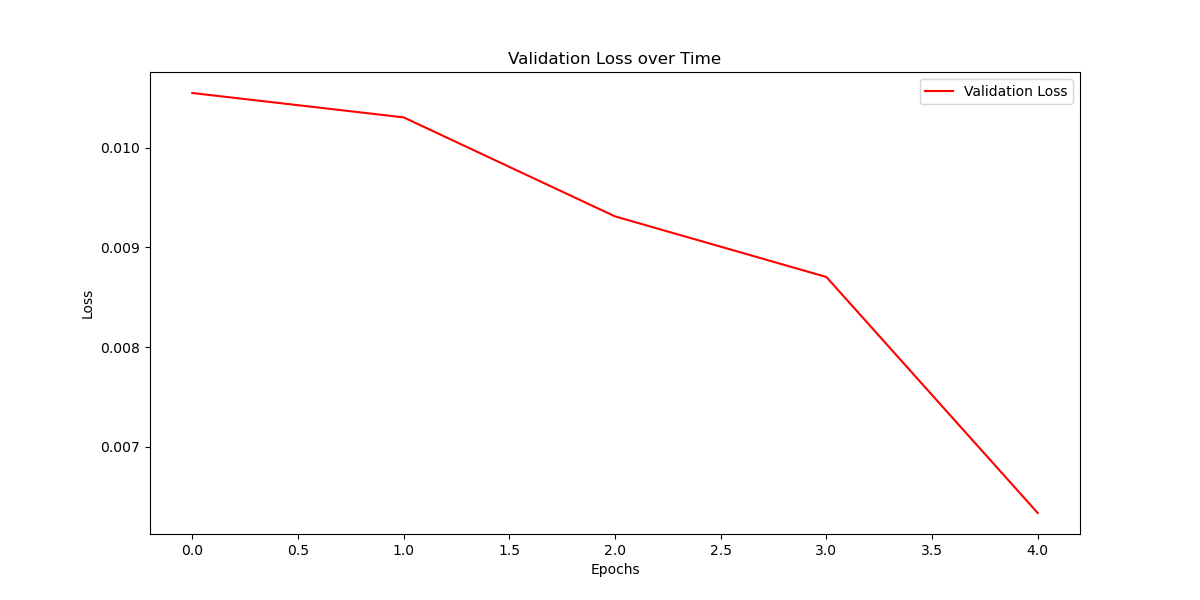
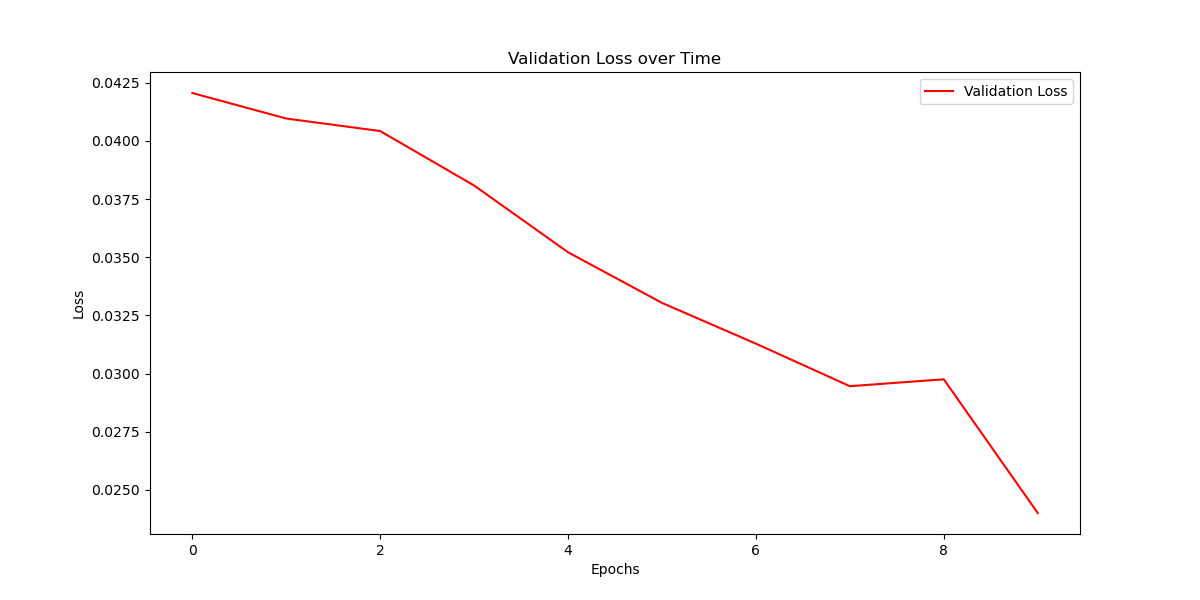
Hyper Parameter Tuning & ReadMe Update
Slightly tuned some of the parameters to increase generalisation and change the ReadMe for better formatting.

diff --git a/recognition/AlzheimerClassifierNN_ZacharyWalls_46966775/dataset.py b/recognition/AlzheimerClassifierNN_ZacharyWalls_46966775/dataset.py
@@ -51,14 +51,14 @@ def get_train_val_loaders() -> Tuple[DataLoader, DataLoader]:
     train_dataset = datasets.ImageFolder(root="data/train", transform=_train_transform)
     print(f"training data loaded with {len(train_dataset)} samples.")
 
-    train_loader = DataLoader(train_dataset, batch_size=64, shuffle=True, num_workers=6)
+    train_loader = DataLoader(train_dataset, batch_size=16, shuffle=True, num_workers=6)
     print(f"Training loader ready.\n")
 
     print("Loading validation data...")
     val_dataset = datasets.ImageFolder(root="data/val", transform=_test_transform)
     print(f"training data loaded with {len(val_dataset)} samples.")
 
-    val_loader = DataLoader(val_dataset, batch_size=64, shuffle=False, num_workers=6)
+    val_loader = DataLoader(val_dataset, batch_size=16, shuffle=False, num_workers=6)
     print(f"Validation loader ready.\n")
 
     print("Training and validation loaders ready.")
@@ -80,7 +80,7 @@ def get_test_loader() -> DataLoader:
     test_dataset = datasets.ImageFolder(root="data/test", transform=_test_transform)
     print(f"Testing data loaded with {len(test_dataset)} samples.")
 
-    test_loader = DataLoader(test_dataset, batch_size=64, shuffle=True, num_workers=6)
+    test_loader = DataLoader(test_dataset, batch_size=16, shuffle=False, num_workers=6)
     print(f"Testing loader ready.\n")
 
     return test_loader

diff --git a/recognition/AlzheimerClassifierNN_ZacharyWalls_46966775/train.py b/recognition/AlzheimerClassifierNN_ZacharyWalls_46966775/train.py
@@ -16,22 +16,22 @@ if __name__ == "__main__":
     # Load Data
     print(f"\nFETCHING DATA LOADERS\n{'='*25}\n")
     train_loader, val_loader = get_train_val_loaders()
-
+    train_loader = val_loader
     # Initialize Model
     print(f"\nINITIALIZING MODEL\n{'='*25}\n")
     print("Assigning model instance...")
     model = ViT(
         in_channels=3,
         patch_size=14,
-        emb_size=768,
+        emb_size=1568,
         img_size=224,
-        depth=14,
+        depth=10,
         n_classes=2,
     ).to(device)
     print("Model ready.")
 
     # Define Loss, Optimizer and Scheduler
-    lr = 0.00001
+    lr = 0.000001
     wd = 0
     criterion = nn.CrossEntropyLoss()
     optimizer = optim.Adam(model.parameters(), lr=lr, weight_decay=wd, amsgrad=True)

diff --git a/recognition/AlzheimerClassifierNN_ZacharyWalls_46966775/predict.py b/recognition/AlzheimerClassifierNN_ZacharyWalls_46966775/predict.py
@@ -23,7 +23,7 @@ parser.add_argument(
 parser.add_argument(
     "--batch_size",
     type=int,
-    default=64,
+    default=16,
     help="Batch size for making predictions (if --image_folder is provided)",
 )
 args = parser.parse_args()
@@ -63,9 +63,9 @@ if __name__ == "__main__":
     model = ViT(
         in_channels=3,
         patch_size=14,
-        emb_size=768,
+        emb_size=1536,
         img_size=224,
-        depth=14,
+        depth=10,
         n_classes=2,
     ).to(device)
 

diff --git a/recognition/AlzheimerClassifierNN_ZacharyWalls_46966775/README.md b/recognition/AlzheimerClassifierNN_ZacharyWalls_46966775/README.md
@@ -2,7 +2,6 @@
 
 This repository contains the code for training a custom made Visual-Transformer based model used to identify Alzheimer's disease in 2D sliced MRI brain scans. The model was trained on the [Alzheimer's Disease Neuroimaging Initiative (ADNI)](http://adni.loni.usc.edu) dataset which contains a number of sliced MRI brain scan images separated into Cognitive Normal (NC) and Alzheimer's (AD) classifications. The model is centered around the Vision Transformer (ViT) first introduced in the paper "An Image is Worth 16x16 Words: Transformers for Image Recognition at Scale" [1] which works by dividing an image into fixed-size patches and leveraging self-attention mechanisms for feature extraction and pattern recognition.
 
-
 ## The Visual Transformer Algorithm
 
 ViT is a groundbreaking deep learning architecture originally designed for image recognition, inspired by the "An Image Is Worth 16x16 Words" paper by Dosovitskiy et al. [1]. The algorithm processes images by breaking them down into patches, treating each patch as a token, and leveraging transformer layers to capture global image relationships. ViT's efficiency and scalability make it an invaluable tool in computer vision tasks, offering the ability to extract complex patterns and relationships within images effectively.
@@ -10,8 +9,6 @@ ViT is a groundbreaking deep learning architecture originally designed for image
 ### Why ViT in Our Use Case?
 
 In our Alzheimer's Disease Classifier project, ViT plays a pivotal role in the accurate diagnosis of Alzheimer's disease from brain scan images. ViT's adaptability to image data, strong performance in classification tasks, and scalability align perfectly with our goals. By integrating ViT, we empower medical professionals and researchers with an advanced tool to help identify potential Alzheimer's in a patient's brain.
-
-
 
 ## Dependencies
 
@@ -30,11 +27,9 @@ pip install -r requirements.txt
 
 ### Environment Used for Development
 
-Please note that this code base was developed and used on an ARM64 architecture making use of the mps api within the pytorch library. The machine used for testing having 64 GB of RAM and an M1 Max Chip.
+Please note that this code base was developed and used on an ARM64 architecture making use of the mps API within the pytorch library. The machine used for testing and training having 64 GB of RAM and an M1 Max Chip.
 
-If you do wish to replicate these results I suggest either using an ARM based system or if using a Windows based system alter the code base to make use of the CUDA GPU Acceleration.
-
-
+If you do wish to replicate these results I suggest either using an ARM based system or if you do plan on using a Windows based system alter the code base to make use of the CUDA GPU Acceleration.
 
 ## Dataset
 
@@ -51,9 +46,9 @@ To prepare the data for training and testing, the following preprocessing steps 
 
 1. **Image Resizing**: All images were resized to a common size of 224x224 pixels to ensure consistency, this being the same size used in the original paper [1].
 
-2. **Data Splitting**: The dataset was divided into three subsets: training, validation, and testing. This split helps in evaluating the model's performance accurately particularly it's generalization ability through the use of an individual validation set. The validation set was derived from the original training set within the ADNI data where 10% was reserved for the validation set and the rest supplied to the training set. The test set already being split within the original ADNI dataset containing a relatively even split of data of AD and NC classes for 9000 samples.
+2. **Data Splitting**: The dataset was divided into three subsets: training, validation, and testing. This split helps in evaluating the model's performance accurately particularly it's generalization ability through the use of an individual validation set. The validation set was derived from the original training set within the ADNI dataset where 10% was reserved for the validation set and the rest supplied to the training set. The test set being already split within the original ADNI dataset containing a relatively even split of data of AD and NC classes for 9000 samples.
 
-3. **Data Augmentation (Training Only)**: Data augmentation techniques, such as random cropping, horizontal flipping, and random adjustments in sharpness, were applied to the training data. Data augmentation helps improve the model's ability to generalize.
+3. **Data Augmentation (Training Only)**: Data augmentation techniques, such as random cropping, horizontal flipping, and random adjustments in sharpness were applied to the training dataset to increase the generalization performance of the model.
 
 4. **Normalization**: The pixel values of the images were normalized to have a mean of approximately 0.141 and a standard deviation of approximately 0.242. These values were derived from the dataset whereby the mean and standard deviation was calculated on the training dataset images and collated. Normalization ensures that the input data has zero mean and unit variance, which aids in training deep neural networks.
 
@@ -61,26 +56,23 @@ To prepare the data for training and testing, the following preprocessing steps 
 
 This preprocessing pipeline ensures that the dataset is appropriately formatted and ready for training the model to classify Alzheimer's disease.
 
-**_Please Note:_** The ADNI dataset contains image splits per patient including 20 slices per patient's brain scan meaning the dataset can be elevated to create a 3D model. To maintain simplicity within the model separate 2D slices are utilized with testing of 3D models yielding poor results suspectedly due to a poor relationship mapping that occurs when trying to elevate the 2D data to a 3D dimension.
-
-
+**_Please Note: The ADNI dataset contains image splits per patient including 20 slices per patient's brain scan meaning the dataset can be elevated to create a 3D model. To maintain simplicity within the model separate 2D slices are utilized. 3D models were tested however yielding poor results suspectedly due to a poor relationship mapping that occurs when trying to elevate the 2D data slices to 3 dimension._**
 
 ## Model Architecture
 
 The model's architecture is largely based on the originally introduced paper as seen in the below image;
 
 ![Model ViT](images/model_vit.png)
+
 _Image source: [A. Dosovitsky et al., "An Image is Worth 16x16 Words: Transformers for Image Recognition at Scale"](https://arxiv.org/abs/2010.11929)_
 
 Key components of the ViT model include:
 
 -   **Patch Embedding**: The input image is divided into fixed-size patches and linearly embedded into high-dimensional vectors.
-    -   **_Note:_** for our application a 2D convolution layer was used as apposed to a linear layer in the patch embeddings to improve performance.
+    -   **_Note: for our application a 2D convolution layer was used as apposed to a linear layer in the patch embeddings to improve performance._**
 -   **Positional Encoding**: To provide spatial information to the model, positional encodings are added to the patch embeddings.
 -   **Transformer Encoder**: The heart of the model, where self-attention mechanisms are applied to capture global and local dependencies among patches.
 -   **Classification Head**: A fully connected layer that produces class predictions based on the encoded features.
-
-
 
 ## Usage
 
@@ -111,7 +103,7 @@ You can customize predictions using the following optional arguments:
 
 -   `--image_folder`: Path to a folder with images for prediction (default is None).
 -   `--output_folder`: Path for saving prediction results (default is './predictions').
--   `--batch_size`: Set batch size for predictions (default is 64).
+-   `--batch_size`: Set batch size for predictions (default is 16).
 
 4. Review Results
 
@@ -132,50 +124,46 @@ user_data/
 └── image2.jpg
 ```
 
-
-
 ## Results
 
 The AlzViT model achieved impressive results with an accuracy exceeding 80% on the Alzheimer's Disease Neuroimaging Initiative (ADNI) test dataset. This showcases the power of Vision Transformers (ViTs) in handling complex medical image classification tasks.
 
-When putting the data set through the model the following confusion matrix was outputted:
+Within training the model achieved an impressive 86.29% on the validation set, please see below for the validation loss and validation accuracy per epoch of training (please note that the model used for testing was trained for 50 epochs, the below data is a reference to the training performance over shorter periods as training the model is quite computer intensive as such a smaller epoch count is displayed for performance reference, further epochs of training yielded minimal improvements to the performance of the model);
+
+![Loss_Time](images/loss_time.png)
+
+![Accuracy_Time](images/accuracy_time.png)
+
+From above we can see a decreasing stable and very low Training loss value between Epochs, this suggests that the model is fitting the training data relatively well allowing for the model to converge and effectively minimize the loss on the validation set.
+
+Additionally, from above we can see the Validation Accuracy steadily increases per Epoch suggesting the model has an increasing generalization ability on data it has not seen before.
+
+Both results indicate the model is fitting well with the data and pulling the relative relationships within the data.
+
+When putting the testing data set through the trained model the following confusion matrix was outputted:
 
 |              | Predicted AD | Predicted NC |
 | ------------ | ------------ | ------------ |
 | True AD (AD) | 3817         | 643          |
 | True NC (NC) | 882          | 3658         |
 
-The resulting outputs yielded an accuracy of 83.06% with a higher percentage of false predictions being false Alzheimer's predictions which considering the application and overall risk is a better weighting to have causing more false Alzheimer's reading than less false Normal reading. Within future iterations of this model it is suggested to place a class weighting to add further weighting to the model if it misclassifies Alzheimer's as False.
-
-Please see below for the Training Loss and Accuracy during training (please note that the model used for testing was trained for 50 epochs, the below data is a reference to the training performance over shorter periods as training the model is quite computer intensive as such a smaller epoch count is displayed for performance reference);
-
-![Loss_Time](images/loss_time.png)
-
-![Accuracy_Time](images/accuracy_time.png)
-
-From above we can see a fairly stable and very low Training loss value between Epochs, this suggests that the model is fitting the training data relatively well allowing for the model to converge and effectively minimize the loss on the validation set.
-
-Additionally, from above we can see the Validation Accuracy steadily increases per Epoch suggesting the model has an increasing generalization ability on data it has not seen before.
-
-Both results indicate the model is fitting well with the data and pulling the relative relationships within the data.
+The resulting outputs yielded an accuracy of 83.06% with a higher percentage of false predictions being false Alzheimer's predictions which considering the application and overall risk is a better weighting to have as it is better to miss diagnose Alzheimer's as apposed to not diagnosing it at all. Within future iterations of this model it is suggested to place a class weighting to add further weighting to the model if it misclassifies Alzheimer's as False.
 
 Please see below for some of the outputs for the prediction script;
 
 <div style="display: flex; justify-content: space-between; padding-bottom: 10px;">
     <img src="images/batch83_image1.png" alt="Scan 1" width="30%">
     <img src="images/batch22_image1.png" alt="Scan 2" width="30%">
-    <img src="images/batch83_image1.png" alt="Scan 3" width="30%">
+    <img src="images/batch15_image1.png" alt="Scan 3" width="30%">
 </div>
 
 Whilst this model performed well it's worth noting that there is always room for improvement. Future work on this architecture could explore the integration of additional models, such as Convolutional Neural Networks (CNNs), to enhance feature extraction capabilities. A recent study in this direction [5] suggests that combining ViTs with CNNs can lead to even more robust and accurate results for medical image analysis. By leveraging the strengths of both architectures, we can further advance the accuracy and reliability of Alzheimer's disease classification systems.
-
-
 
 ## Acknowledgements
 
 [1] A. Dosovitsky et al., "An Image is Worth 16x16 Words: Transformers for Image Recognition at Scale", arXiv: 2010.11929 [cs.CV], 2021.
 
-[2] "Vision Transformers for Remote Sensing Image Classification," Remote Sens., vol. 13, pp. 516-535, Feb. 2021. [Online]. Available: https://www.mdpi.com/2306-5354/10/9/1015.
+[2] Eva Pachetti et al., "3D-Vision-Transformer Stacking Ensemble for Assessing Prostate Cancer Aggressiveness from T2w Images"[Online]. Available: https://www.mdpi.com/2306-5354/10/9/1015.
 
 [3] "lucidrains/vit-pytorch," GitHub. [Online]. Available: https://github.com/lucidrains/vit-pytorch.
 
